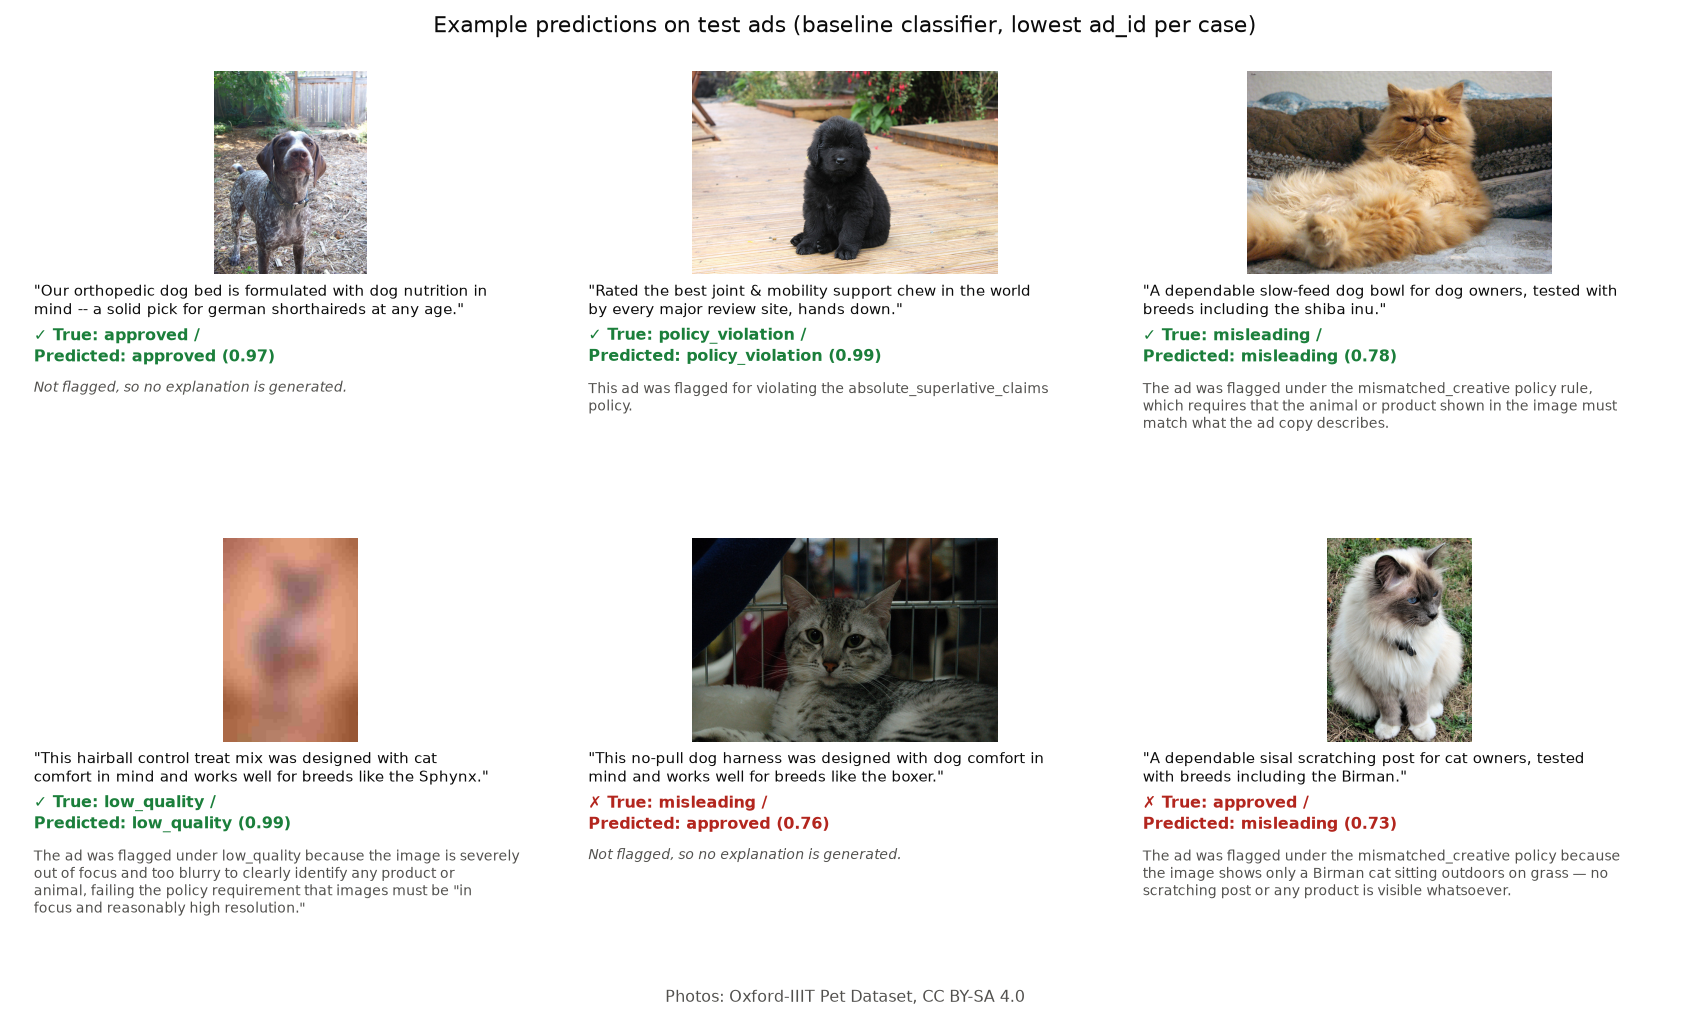
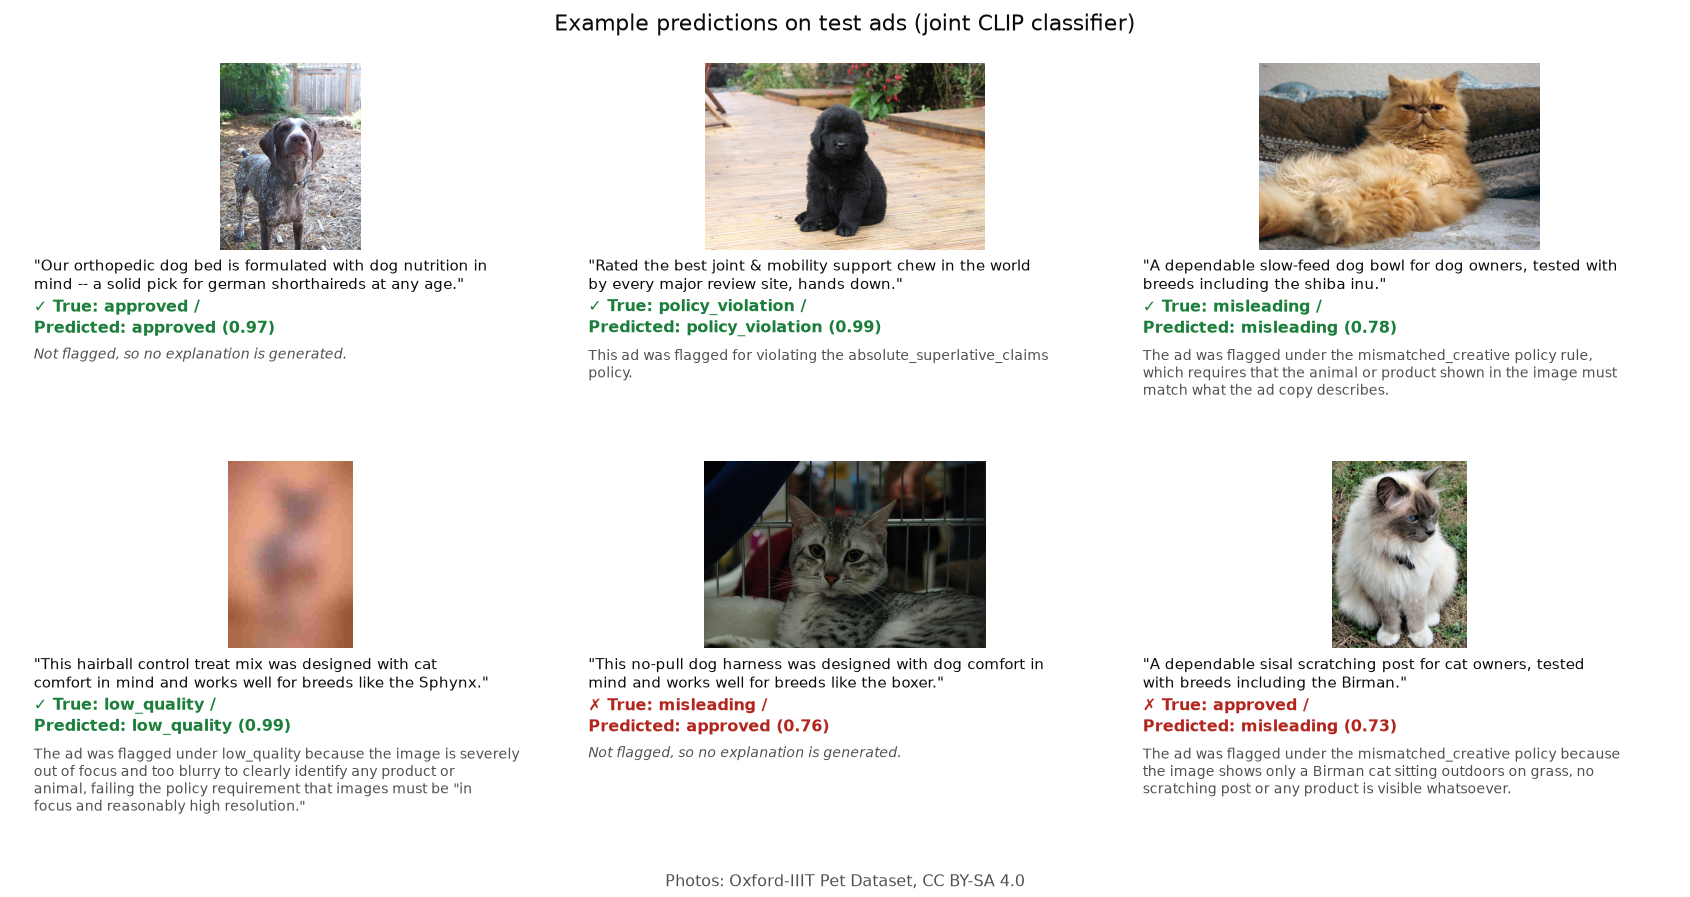
update changes

diff --git a/docs/generate_charts.py b/docs/generate_charts.py
@@ -150,7 +150,7 @@ def make_compression_accuracy():
         (f"Selected: {kind} {chosen['level_pct']}%", rows[selected_label], kind, (14, 4)),
         ("Unstructured 90%", rows["unstructured 90% sparsity"], "unstructured", (14, 16)),
         ("Structured 90%", rows["structured 90% neurons removed"], "structured", (14, -18)),
-        ("INT8 (selected)", quantized, "int8", (14, 24)),
+        ("Structured 75% + INT8", quantized, "int8", (14, 24)),
     ]
     if kind != "structured":
         best_structured = next(c for c in selection["all_candidates_ranked"] if c["method"] == "structured")
@@ -236,6 +236,7 @@ def select_examples(rows: list[dict], explained: set[int]) -> list[dict]:
 def first_sentence(text: str) -> str:
     text = re.sub(r"^#+ .*$", "", text, flags=re.M).replace("**", "")
     text = re.sub(r"\s+", " ", text).strip()
+    text = re.sub(r"\s*\u2014\s*", ", ", text)
     return re.split(r"(?<=[.!?][\"'])\s|(?<=[.!?])\s", text, maxsplit=1)[0]
 
 
@@ -252,8 +253,8 @@ def make_example_predictions():
     explanations = {int(e["ad_id"]): e["explanation"] for e in json.load(open("eval/generated_explanations.json"))}
     examples = select_examples(test_predictions(), set(explanations))
 
-    fig = plt.figure(figsize=(13, 7.8))
-    outer = fig.add_gridspec(2, 3, hspace=0.10, wspace=0.08, left=0.02, right=0.98, top=0.93, bottom=0.05)
+    fig = plt.figure(figsize=(13, 6.9))
+    outer = fig.add_gridspec(2, 3, hspace=0.02, wspace=0.08, left=0.02, right=0.98, top=0.93, bottom=0.05)
     for i, ex in enumerate(examples):
         row = df.iloc[ex["ad_id"] - 1]
         assert row["ground_truth_label"] == ex["true"], f"dataset row does not match ad_id {ex['ad_id']}"
@@ -275,8 +276,7 @@ def make_example_predictions():
         else:
             ax_txt.text(0, 0.54, "Not flagged, so no explanation is generated.", va="top", fontsize=8,
                         color=TEXT_SECONDARY, style="italic", transform=ax_txt.transAxes)
-    fig.suptitle("Example predictions on test ads (baseline classifier, lowest ad_id per case)", fontsize=12,
-                 color=TEXT_PRIMARY, y=0.985)
+    fig.suptitle("Example predictions on test ads (joint CLIP classifier)", fontsize=12, color=TEXT_PRIMARY, y=0.985)
     fig.text(0.5, 0.012, "Photos: Oxford-IIIT Pet Dataset, CC BY-SA 4.0", ha="center", fontsize=9, color=TEXT_SECONDARY)
     plt.savefig("docs/images/example_predictions.png", dpi=130, facecolor="white")
     plt.close()

diff --git a/README.md b/README.md
@@ -5,6 +5,8 @@ It also covers compressing the head, an offline A/B test against a rule-based ba
 
 ![Example predictions on test ads](docs/images/example_predictions.png)
 
+Bottom right: a wrong label gets a confident but wrong explanation.
+
 ## Results at a glance
 
 | Area | Result | Source |
